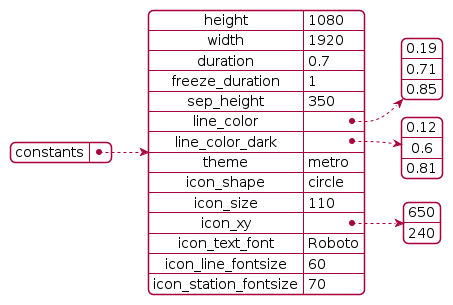
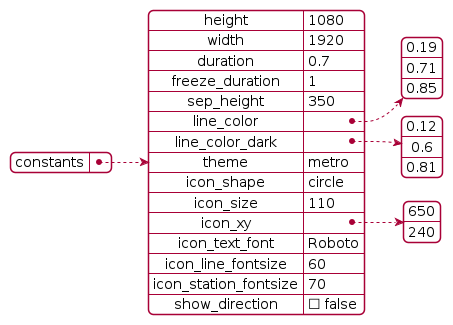
Update constants setting docs

Changed region(s): [[0.3091, 0.0, 0.989, 0.9738], [0.0309, 0.4426, 0.2472, 0.5607]]

diff --git a/settings/README.md b/settings/README.md
@@ -51,6 +51,7 @@ Video-wide settings.
 - `icon_text_font` (string) - font to use for text in the station icon
 - `icon_line_fontsize` (int) - font size of the line number in the station icon
 - `icon_station_fontsize` (int) - font size of the station number in the station icon
+- `show_direction` (bool) - whether to show the terminus station instead of the first station. Use false if your video is a section of a line, true if it is an entire line.
 
 ![constants](puml/render/constants.png)
 
